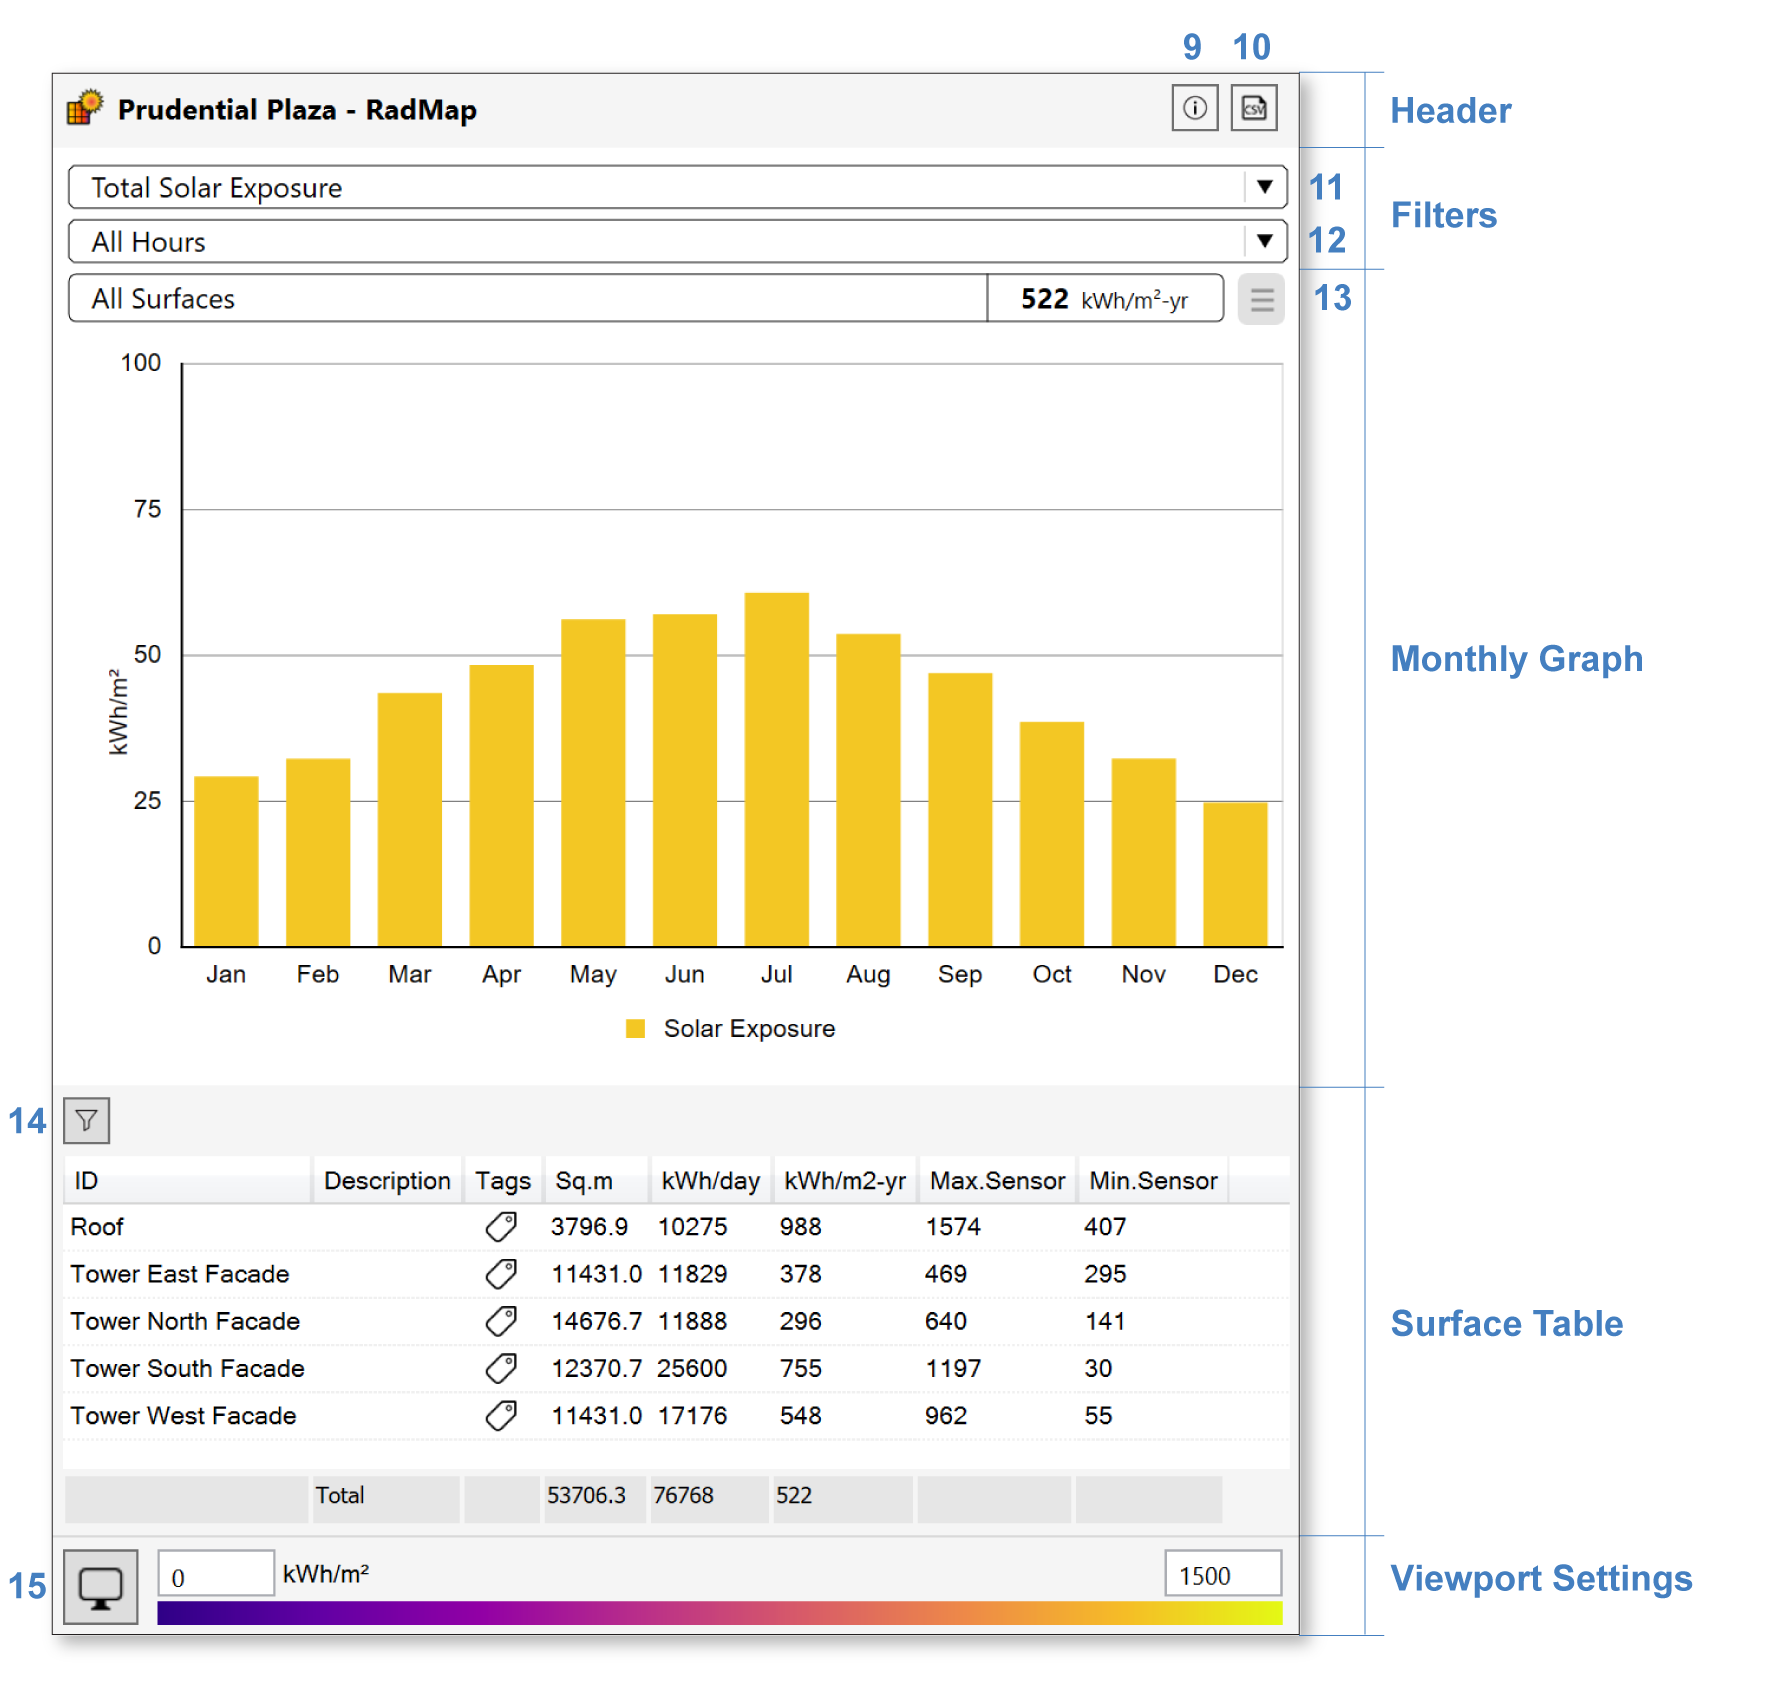
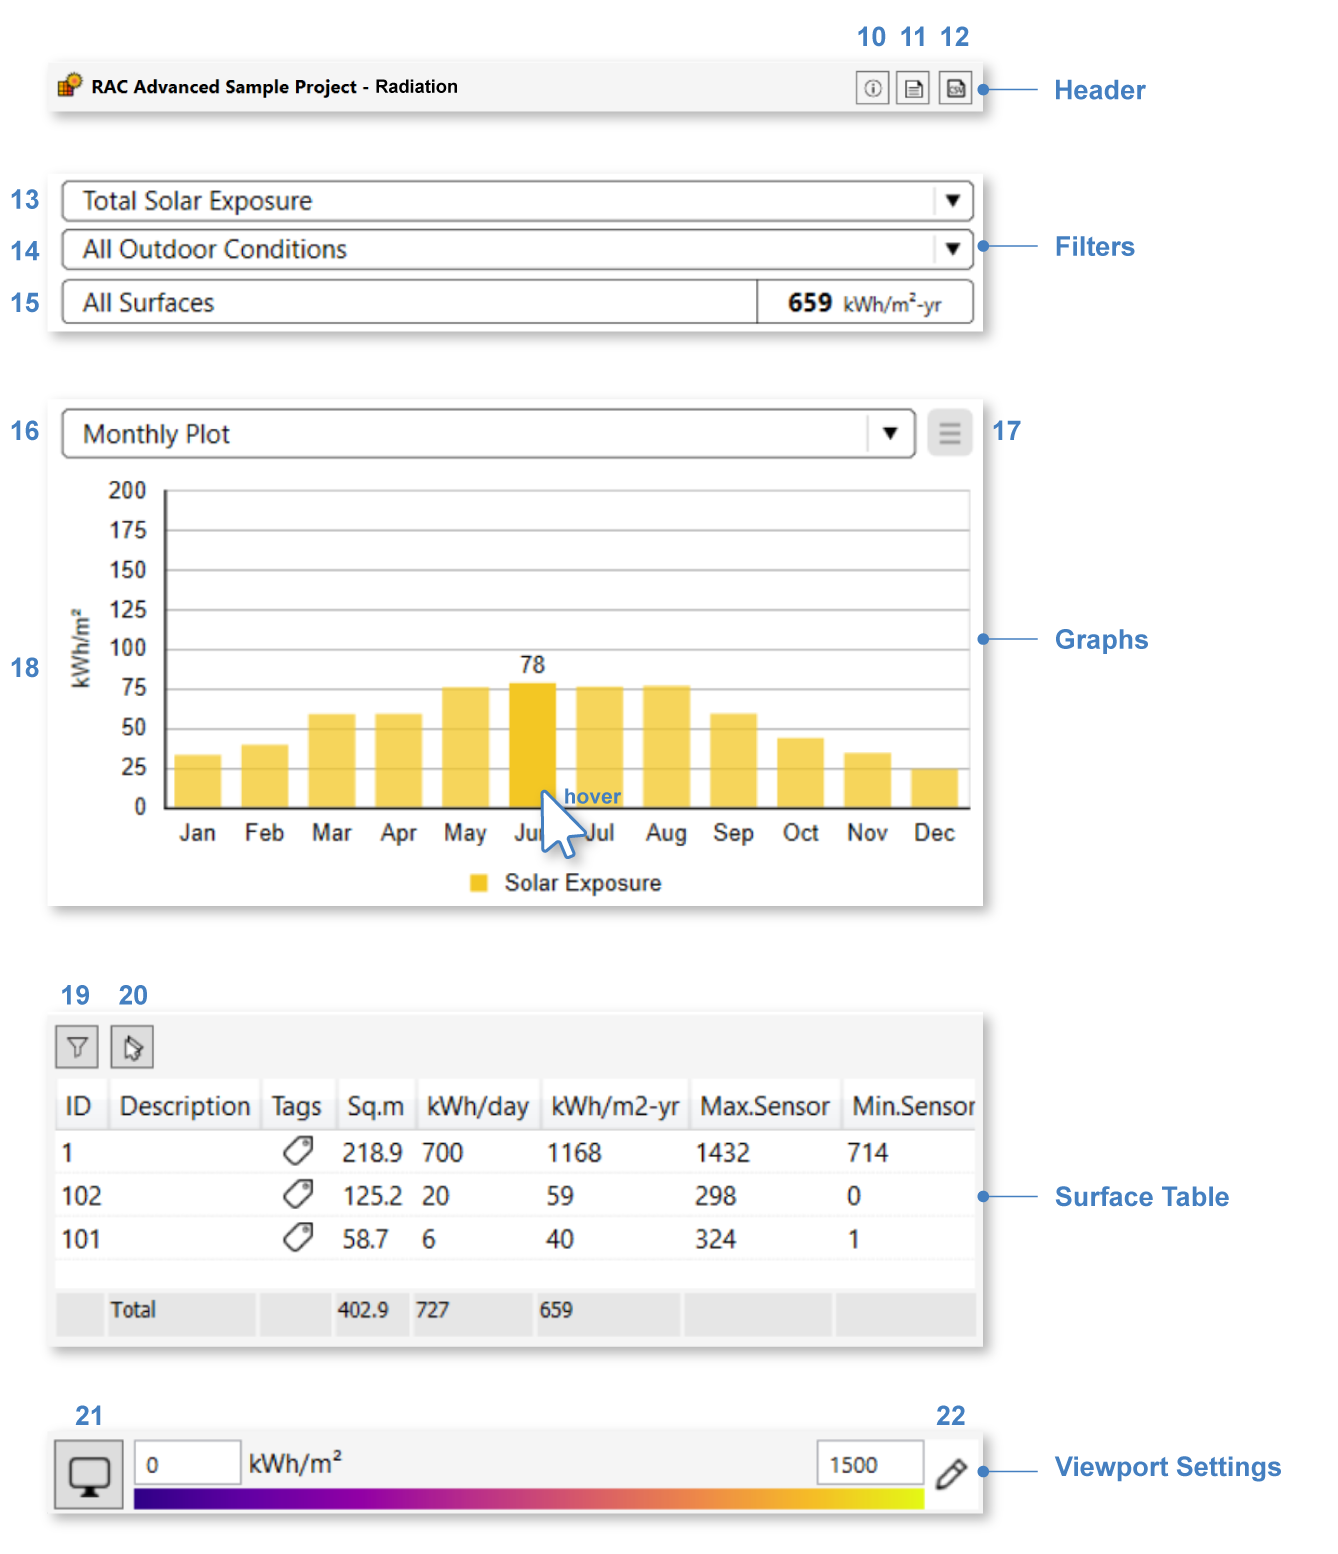
Radiation Map Results Documentation Update #18

Changed region(s): [[0.0, 0.0, 0.9499, 0.9884], [0.0, 0.2471, 0.0306, 0.3089]]

diff --git a/docs/radiationMap.rst b/docs/radiationMap.rst
@@ -1,7 +1,7 @@
 
 Radiation Map
 ================================================
-ClimateStudio supports the calculation of annual and monthly solar radiation falling on select surfaces in the scene. (For hourly timesteps, see the `Grasshopper Workflows`_.) The simulation uses sun and sky radiances derived from weather-file data, which represent historically typical meteorological conditions. The purpose of a solar radiation calculation varies from identifying suitable positions for placing solar cells to designing a static shading system. These simulations complement `Direct Shading`_ studies. 
+ClimateStudio supports the calculation of annual, monthly, and hourly solar radiation falling on select surfaces in the scene. The simulation uses sun and sky radiances derived from weather-file data, which represent historically typical meteorological conditions. The purpose of a solar radiation calculation varies from identifying suitable positions for placing solar cells to designing a static shading system. These simulations complement `Direct Shading`_ studies. 
 
 .. _Grasshopper Workflows: grasshopperTemplates.html
 .. _Direct Shading: sunPath.html
@@ -12,10 +12,10 @@ Simulation Setup
    :width: 900px
    :align: center
    
-To prepare a model for simulation, work your way through the three subpanels labeled 1-4 in the figure above.
+To prepare a model for simulation, work your way through the six subpanels labeled 1-6 in the figure above.
 
 | 1 - `Location`_
-| 2 - `Time Range`_
+| 2 - `Time Range`_ (optional)
 | 3 - `Materials`_
 | 4 - `Analysis Surfaces`_ 
 | 5 - `Scene Assets`_ (optional): `Trees`_ (7)
@@ -36,10 +36,10 @@ To prepare a model for simulation, work your way through the three subpanels lab
 
 .. _Scene Assets: sceneObjects.html
 
-Once all required inputs have been populated, a simulation is invoked by pressing the start button (8). 
+Once all required inputs have been populated, a simulation is invoked by pressing the **start button (8)**. 
 ClimateStudio uses a `progressive path-tracing`_ version of the Radiance raytracer to simulate irradiance distributions. 
 While a simulation is in progress, traced light paths accumulate until the user-specified number of passes has been reached. 
-Details on the simulation settings can be found by opening the `settings dialog`_ (9). 
+Details on the simulation settings can be found by opening the `settings dialog`_  **(9)**. 
 For radiation maps, the dialog includes **low/high outdoor temperature thresholds**, 
 which can be used to bin radiation occurring during hot or cold hours throughout the year.
 
@@ -49,13 +49,14 @@ which can be used to bin radiation occurring during hot or cold hours throughout
 
 Simulation Results
 -------------------------
-Upon completion of the first simulation pass, or upon loading a saved result, a falsecolor preview will appear in the Rhino viewport, showing cumulative radiation values for the selected analysis surfaces:
+Upon completion of the first simulation pass, or upon loading a saved result, a falsecolor preview will appear in the Rhino viewport, 
+showing cumulative radiation values for the selected analysis surfaces:
 
 .. figure:: images/result_viewportRadMap.png
    :width: 900px
    :align: center
 
-The `results panel`_ will show a monthly data plot, table, and viewport legend, as follows:
+The `results panel`_ will show a monthly (by default) data plot, table, and viewport legend, as follows:
 
 .. _results panel: results.html
 
@@ -63,21 +64,38 @@ The `results panel`_ will show a monthly data plot, table, and viewport legend, 
    :width: 900px
    :align: center
 
-- The **Header** includes the result name, a CSV export (10), and an information dialog (9), which provides an accounting of simulation inputs.
+The **Header** includes the result name, a **run log (11)**, a **CSV export (12)**, and a **run parameters spreadsheet (10)** which provides an accounting of simulation inputs.
 
-.. _report generator: #reporting
+The **Filters** allow binning radiation by type or temperature. 
 
-- The **Filters** allow binning radiation by type or temperature. The **Radiation Type Filter** (11) lets you toggle between *total*, *direct*, or *indirect* solar exposure. Direct radiation is that coming directly from the sun, without scattering or reflection. The **Temperature Filter** (12) lets you isolate hours where the outdoor temperature is above or below the high and low temperature thresholds set prior to the run. The filters determine the data displayed in both the viewport and the monthly graph.
+  - The **Radiation Type Filter (13)** lets you toggle between *total*, *direct*, or *indirect* solar exposure. Direct radiation is that coming directly from the sun, without scattering or reflection. 
+
+  - The **Temperature Filter (14)** lets you isolate hours where the outdoor temperature is above or below the high and low temperature thresholds set prior to the run. The filters determine the data displayed in both the viewport and the graph.
+
+  - The **Surface Filter (15)** is set using the **Surface Table** or by hovering over a sensor in the viewport. 
+
+The **Graph (18)** shows mean cumulative exposure data for each month of the year. If *"save sensor data"* is set to hourly in the `Time Range`_ sub-panel, use **(16)** to switch between **monthly, daily, and hourly** graphs. 
+
+  - By default these are area-weighted averages for all analysis surfaces, but a subset of surfaces can be isolated using the **Surface Table**. 
+
+  - Data for an individual sensor can be displayed by hovering over the sensor in the viewport. 
+
+  - **Hover** over the graph to show the actual value of each data point.  
+
+  - Use the **dropdown menu (17)** to export graph to PNG, switch unit system, or change the draw settings. 
+
+  - Clicking on the Y-Axis or the falsecolor of the graph to edit the max value of the Y-Axis and the min, max value, and gradient of the flasecolor. 
 
 
-.. _report generator: #reporting
+.. figure:: images/result_panelRadMap_graphs.png
+   :width: 900px
+   :align: center
 
-- The **Monthly Graph** shows mean cumulative exposure data for each month of the year. By default these are area-weighted averages for all analysis surfaces, but a subset of surfaces can be isolated using the Surface Table. Data for an individual sensor can be displayed by hovering over the sensor in the viewport. The graph can be exported to PNG using the dropdown menu (13).
 
-.. _report generator: #reporting
+The **Surface Table** lists the mean total and normalized solar exposure, as well as min and max sensor values, for each analysis surface. 
 
-- The **Surface Table** lists the mean total and normalized solar exposure, as well as min and max sensor values, for each analysis surface. Selecting surfaces by filtration (14) or row selection isolates their preview in the monthly graph and the Rhino viewport, and updates the statistics in the "Totals" row at the bottom of the table.
+  - Selecting surfaces by **filtration (19)** or row selection isolates their preview in the monthly graph and the Rhino viewport, and updates the statistics in the "Totals" row at the bottom of the table.
 
-.. _report generator: #reporting
+  - **Deselect all (20)** to go back to the default display of area-weighted averages for all analysis surfaces. 
 
-- The **Viewport Settings** bar contains a viewport preview legend and settings menu (15), which provides options for customizing the falsecolor display.
+The **Viewport Settings** bar contains a viewport preview legend and **viewport settings menu (21)**, which provides options for customizing the falsecolor display. **Edit falsecolor (22)** to change its gradient, steps, and threshold colors. 
